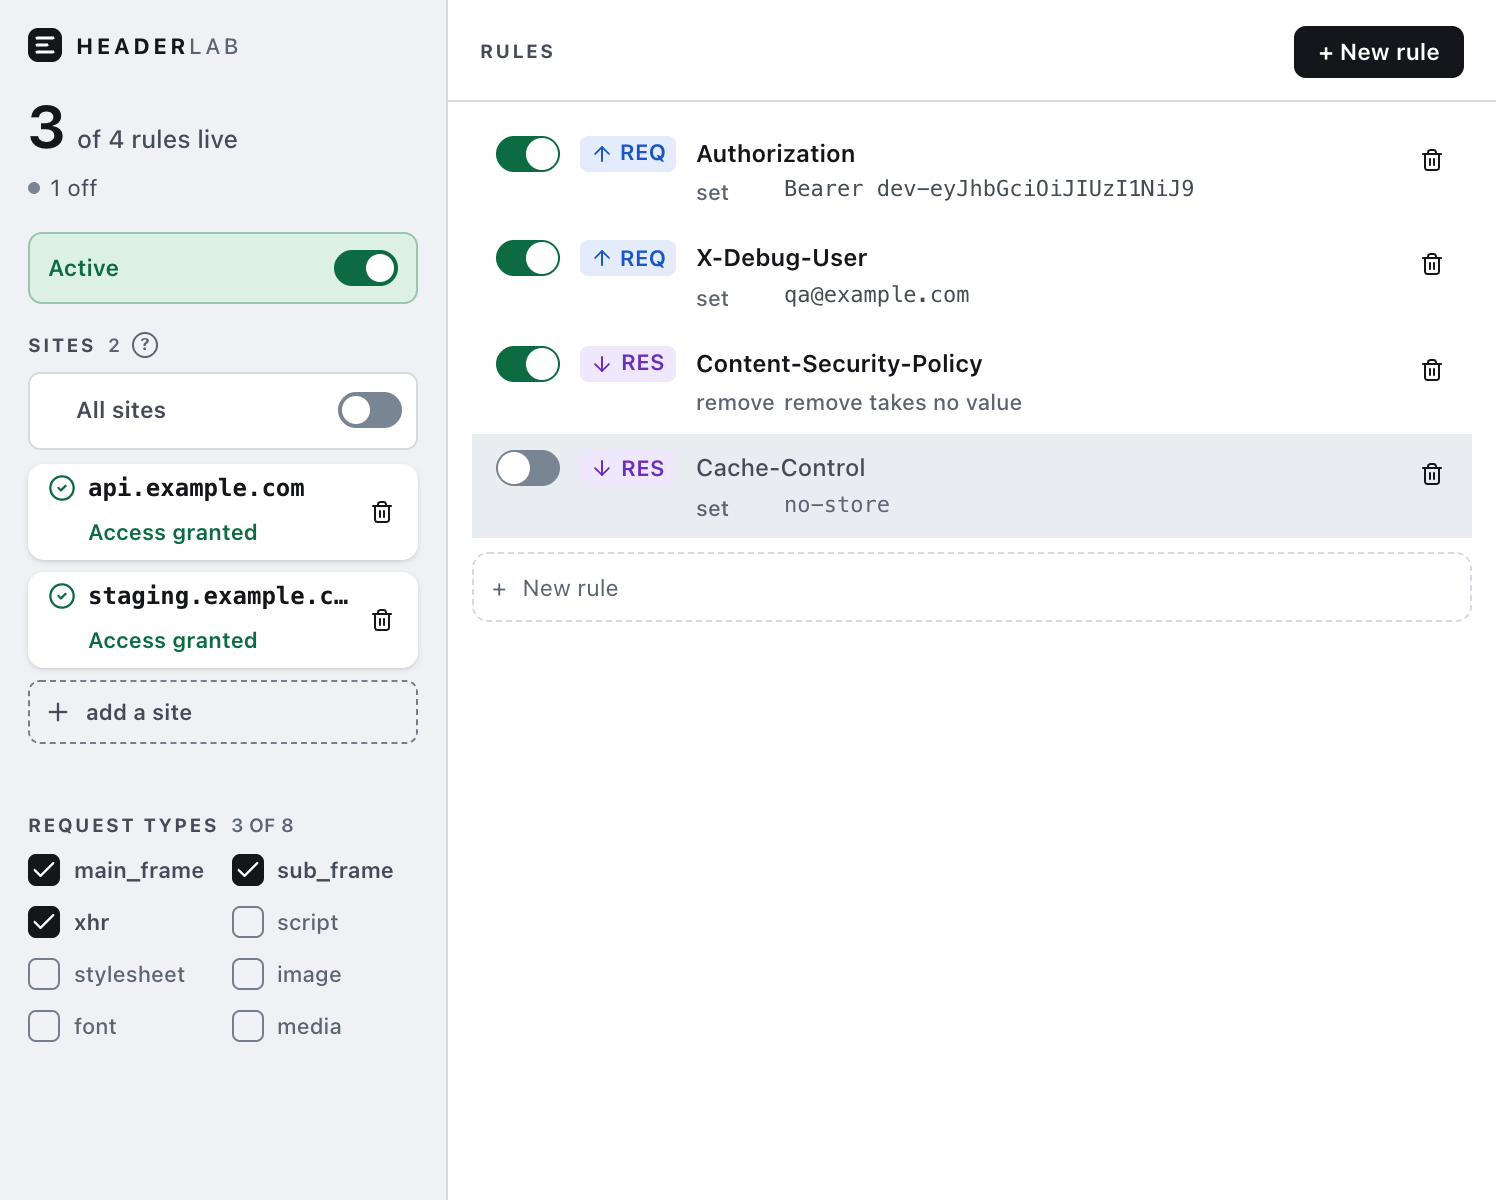
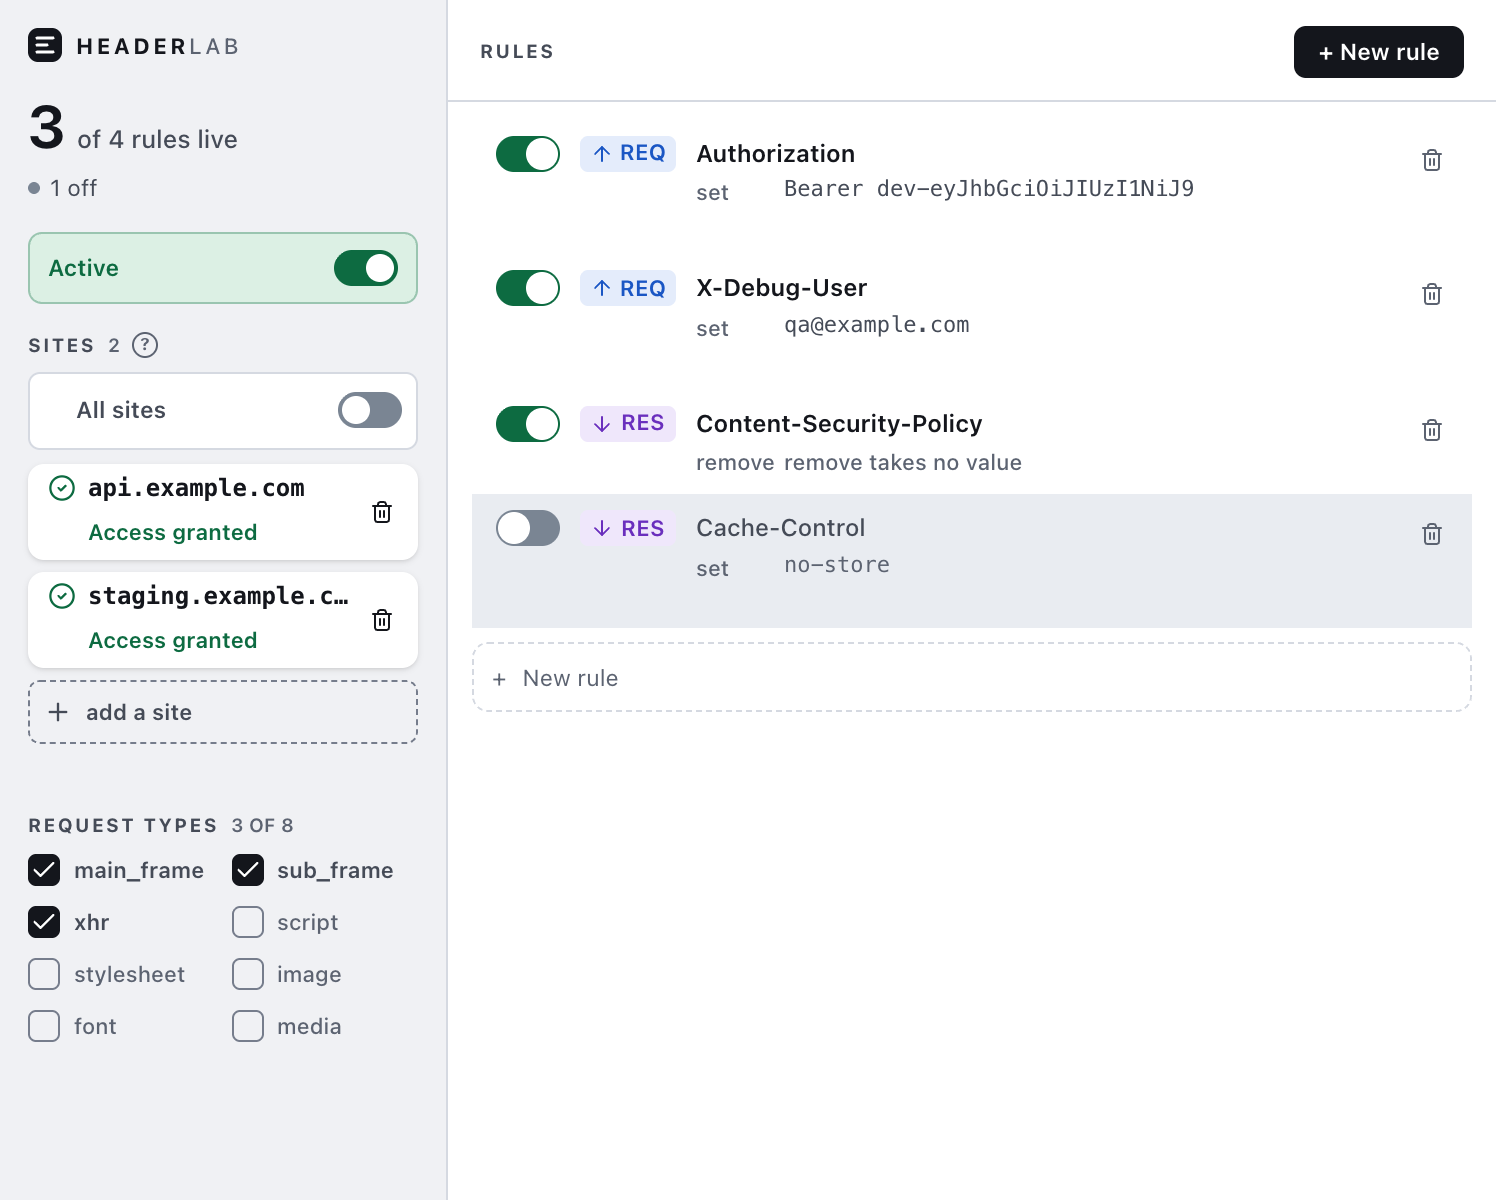
fix: 리뷰 라운드 1 — 삭제 아이콘 색, 높이 가드, 값 상한, 다크 스위치 손잡이를 고친다
Important #1: ghost Button 은 자기 색을 정하지 않아 삭제 아이콘이 행에서
가장 진한 잉크(--foreground)를 그대로 물려받고 있었다 — 헤더 이름과
경쟁하는 정반대 결과. text-muted-foreground 로 고정한다. 곁다리로
contrast.test.ts 의 'site remove control' 페어가 실제로는 어느 쪽 버튼
색도 아니었던 것도 바로잡는다 — SiteRow 의 미수정 상태(--foreground)로
값을 고치고, RuleCard 것은 새 페어로 분리한다.

Important #2: 교체했던 지오메트리 단언은 태그 이름과 값 텍스트만 보고
클래스는 보지 못해 data-[off]:py-4 같은 회귀를 통과시킬 수 있었다.
jsdom 은 레이아웃을 안 하므로 진짜 픽셀 주장은
header-modification.spec.ts 에 새 e2e 테스트로 옮긴다 — 긴 값을 심고
getBoundingClientRect() 를 토글 전후로 재고, 옆 행도 같이 안 움직이는지
본다. 이미 빨강으로 설계된 목록이 넘쳐도… 테스트 안에는 넣지 않는다 —
Playwright 는 첫 실패에서 멈춘다.

Important #3: 값 필드의 min-height: 30px / max-height: 96px 를
69bf230 에서 되살린다 — 오너가 고른 "예전 방식"은 줄바꿈 자체가 아니라
안에서 스크롤하는 캡까지 포함한다. 536자 CSP 로 재보니 캡 없이는
232.5px(팝업 높이의 42%), 캡을 살리면 132.5px. 캡이 넘는 값은 textarea
자신이 overflow-y:auto 스크롤러가 된다는 점을 과밀 가드의 두 번째
단언(Task 8/9 소관)을 위해 주석으로 남긴다. 짧은 값 행이 51.5px 에서
66.5px 로 늘어나는 실측 결과도 그대로 적어 둔다 — 지시받은 대로
복원했지만 그 대가는 눈에 보여야 한다.

Minor #7(격상): 스위치 손잡이의 dark:data-checked:bg-primary-foreground
는 switch.tsx 를 안 건드리고 root 의 임의 자손 셀렉터
([&_[data-slot=switch-thumb]]:dark:bg-white)로 덮는다. 넷 다(라이트/
다크 × 켜짐/꺼짐) 실측: 전부 rgb(255,255,255) — 옛 .hl-tog/.hl-sw 손잡이도
늘 순수 흰색이었던 전례를 그대로 잇는다.

Claude-Session: https://claude.ai/code/session_01AoJqsjMCtVNteQQZDrLcrG

Changed region(s): [[0.3075, 0.185, 0.6765, 0.4933], [0.3382, 0.555, 0.3997, 0.5858], [0.9532, 0.2158, 0.984, 0.2467]]

diff --git a/components/RuleCard.tsx b/components/RuleCard.tsx
@@ -106,8 +106,23 @@ export function RuleCard({ rule, diagnostics, onPatch, onDelete, autoFocus }: Ru
              indicator in the popup does (the rail's own switch, the
              readout's live dot), not the neutral ink token. Unchecked is
              left alone: shadcn's own `bg-input` already is the mockup's
-             `--off` mapping. */
-          className="data-checked:bg-live"
+             `--off` mapping.
+
+             The thumb has the same defect one level down: `switch.tsx`
+             hardcodes `dark:data-checked:bg-primary-foreground` on its own
+             child, which is near-black in the dark palette — a dark knob on
+             a green track, next to the rail's own switch (still-deleted
+             `.hl-sw`, always a plain white knob). `Switch` forwards no prop
+             for the thumb's own class, but an arbitrary descendant variant
+             on the root reaches it without touching the shared component:
+             `[data-slot=switch-thumb]` is more specific than the thumb's own
+             two-class rule (measured: an attribute selector plus `:is(.dark
+             *)` outweighs it), so it wins regardless of source order.
+             Hardcoded white, not a token — the old `.hl-tog`/`.hl-sw` knobs
+             were `#fff` outright too, and the mockup's `.te-sw i` never
+             varies by theme; a switch knob reads as a physical part, not
+             themed ink. */
+          className="data-checked:bg-live [&_[data-slot=switch-thumb]]:dark:bg-white"
         />
 
         <Badge
@@ -164,7 +179,25 @@ export function RuleCard({ rule, diagnostics, onPatch, onDelete, autoFocus }: Ru
                 aria-label="Header value"
                 data-testid="rule-value"
                 rows={1}
-                className="min-w-0 flex-1 resize-none rounded-none border-0 bg-transparent p-0 font-mono text-[11px] leading-[14px] font-medium text-foreground-2 shadow-none outline-none [field-sizing:content] [overflow-wrap:anywhere] placeholder:font-sans placeholder:text-[11px] placeholder:font-medium placeholder:text-muted-foreground focus-visible:ring-0 group-data-off/rule:text-muted-foreground"
+                /* min/max restored from the pre-mockup field (69bf230) — the
+                   owner's ruling was "값이 감싸지게(예전 방식)", the previous
+                   way, which capped growth and let a very long value scroll
+                   inside itself rather than growing without bound. Dropping
+                   the cap was found in review: a realistic 536-character
+                   value made one row 232.5px tall, 42% of the popup's own
+                   height. `max-h-24` (96px) is `.hl-hval`'s old value.
+
+                   Once a value is long enough to hit the cap, the textarea
+                   becomes a genuine scroll container of its own —
+                   `scrollHeight > clientHeight` — which is exactly what the
+                   crowding e2e guard's second assertion
+                   (`header-modification.spec.ts`, `expect(scrollers)...`)
+                   enumerates by walking every `overflow-y: auto`/`scroll`
+                   node. Today's fixtures only seed short values, so this
+                   never fires there, but Task 8/9 — which owns that
+                   assertion — should know the reason going in rather than
+                   find the symptom. */
+                className="min-w-0 max-h-24 min-h-[30px] flex-1 resize-none overflow-y-auto rounded-none border-0 bg-transparent p-0 font-mono text-[11px] leading-[14px] font-medium text-foreground-2 shadow-none outline-none [field-sizing:content] [overflow-wrap:anywhere] placeholder:font-sans placeholder:text-[11px] placeholder:font-medium placeholder:text-muted-foreground focus-visible:ring-0 group-data-off/rule:text-muted-foreground"
                 placeholder="value"
                 value={value.draft}
                 onChange={(e) => value.setDraft(e.target.value)}
@@ -193,7 +226,17 @@ export function RuleCard({ rule, diagnostics, onPatch, onDelete, autoFocus }: Ru
             interrupted by its destructive action. Being last in the flex row
             is now also where it visually belongs, so no positioning trick is
             needed to hold it there. */}
-        <Button variant="ghost" size="icon-xs" aria-label="Delete rule" onClick={onDelete}>
+        {/* `variant="ghost"` sets no text colour of its own — it inherits the
+            row's full-strength ink, the loudest colour in the row, on the
+            control that is destructive. The mockup's `.te-icb` and the old
+            `.hl-del` both wear `--muted-foreground`; this restores that. */}
+        <Button
+          variant="ghost"
+          size="icon-xs"
+          aria-label="Delete rule"
+          onClick={onDelete}
+          className="text-muted-foreground"
+        >
           <Trash2 />
         </Button>
       </div>

diff --git a/tests/e2e/header-modification.spec.ts b/tests/e2e/header-modification.spec.ts
@@ -240,6 +240,105 @@ test('the popup renders its rules from stored state', async ({
   await page.close();
 });
 
+test('a rule row keeps its own height when toggled off, and does not move its neighbours', async ({
+  context,
+  extensionId,
+  serviceWorker,
+}) => {
+  // RuleCard.tsx's row is no longer a fixed 52px — the owner ruled that a
+  // rule's value must wrap and grow rather than truncate, so different
+  // *rules* can be different heights. What must still hold, narrower and
+  // unchanged by that ruling: a *given* rule's own row must not change
+  // height from being toggled on/off. jsdom cannot see this (it performs no
+  // layout), so it is asserted here, against real `getBoundingClientRect()`
+  // boxes, and not merely inferred from the classes that are supposed to
+  // produce it.
+  await serviceWorker.evaluate(async () => {
+    const state = {
+      version: 2,
+      globalPause: false,
+      theme: 'system',
+      profiles: [
+        {
+          id: 'p1',
+          name: 'Local',
+          color: 'green',
+          enabled: true,
+          order: 0,
+          filter: {
+            mode: 'structured',
+            allSites: true,
+            domains: [],
+            excludedDomains: [],
+            resourceTypes: ['xmlhttprequest'],
+          },
+          tabLock: { enabled: false, tabId: null, tabTitle: null },
+          headers: [
+            {
+              id: 'long',
+              enabled: true,
+              target: 'request',
+              operation: 'set',
+              name: 'Authorization',
+              // Long enough to wrap across several lines at the panel's real
+              // width, and unbroken enough (no spaces) to exercise
+              // `overflow-wrap: anywhere` rather than wrapping at word
+              // boundaries alone — the shape of a real bearer token.
+              value:
+                'Bearer dev-eyJhbGciOiJIUzI1NiJ9.eyJzdWIiOiIxMjM0NTY3ODkwIiwibmFtZSI6IkpvaG4gRG9lIiwiaWF0IjoxNTE2MjM5MDIyLCJyb2xlcyI6WyJhZG1pbiIsInFhIiwic3RhZ2luZy1kZWJ1ZyJdfQ.dummysignature-not-real-do-not-use',
+            },
+            {
+              id: 'short',
+              enabled: true,
+              target: 'response',
+              operation: 'set',
+              name: 'X-Short',
+              value: 'ok',
+            },
+          ],
+        },
+      ],
+    };
+    await chrome.storage.local.set({ state, state$: { v: 2 } });
+  });
+
+  const page = await context.newPage();
+  await page.goto(`chrome-extension://${extensionId}/popup.html`);
+  await page.locator('[data-testid="rule"]').first().waitFor();
+
+  const rows = page.locator('[data-testid="rule"]');
+  const longRow = rows.first();
+  const shortRow = rows.nth(1);
+
+  const before = {
+    long: await longRow.boundingBox(),
+    short: await shortRow.boundingBox(),
+  };
+
+  // The long value really did wrap onto more than one line — otherwise the
+  // equality assertions below would pass trivially for an ordinary
+  // single-line row, and this test would not be testing what it claims to.
+  expect(before.long!.height).toBeGreaterThan(before.short!.height * 1.5);
+
+  await longRow.getByRole('switch').click();
+  // `data-off` becoming "true" is the popup's own claim that the click
+  // landed and this is the row it landed on, before trusting a box
+  // measurement taken immediately after.
+  await expect(longRow).toHaveAttribute('data-off', 'true');
+
+  const after = {
+    long: await longRow.boundingBox(),
+    short: await shortRow.boundingBox(),
+  };
+
+  // Whole-box equality, not just height: toggling must not move the row
+  // either, and must not move its untouched sibling below it.
+  expect(after.long).toEqual(before.long);
+  expect(after.short).toEqual(before.short);
+
+  await page.close();
+});
+
 test("nothing in the popup is wider than what holds it, at the popup's own width", async ({
   context,
   extensionId,

diff --git a/tests/unit/RuleCard.test.tsx b/tests/unit/RuleCard.test.tsx
@@ -306,7 +306,8 @@ describe('RuleCard tab order', () => {
   });
 
   it('keeps that order on a rule whose value is still empty', async () => {
-    // An empty `set` rule still renders a real input, so it is in the
+    // An empty `set` rule still renders a real field (a textarea, restored
+    // in a later round — see the value slot tests below), so it is in the
     // sequence like any other. (Only `remove` swaps the value for a span —
     // see below.) Without this case the order could hold for filled rules and
     // break for the one a user meets first.
@@ -373,16 +374,25 @@ describe('RuleCard geometry', () => {
   // value must wrap and grow rather than truncate, so different *rules* can
   // be different heights (see the docblock on RuleCard). What must still
   // hold is narrower: a *given* rule's own row must not change height when
-  // it is toggled on/off or gains a diagnostic. jsdom performs no layout
-  // (this codebase's own e2e suite says so outright), so a unit test cannot
-  // honestly measure pixels — that claim is verified in a real browser
-  // instead (see the task report). What a unit test *can* honestly check is
-  // the structural half of the same claim: toggling never changes which
-  // elements render, their order, or the value text they carry — only
-  // colour/weight classes may differ. A future edit that swapped the value
-  // field for something else in one state, or truncated/altered its text
-  // only when off, would change what this asserts even though jsdom cannot
-  // see the pixel consequence.
+  // it is toggled on/off or gains a diagnostic.
+  //
+  // What this describe block does NOT and cannot guard: the actual pixel
+  // claim. jsdom performs no layout (this codebase's own e2e suite says so
+  // outright), so nothing here can see a regression like `data-[off]:py-4`
+  // or `group-data-off/rule:leading-[20px]` on the row — every Tailwind
+  // class is invisible to a test that only reads tag names and text. That
+  // claim is a real e2e test instead:
+  // `tests/e2e/header-modification.spec.ts`, "a rule row keeps its own
+  // height when toggled off, and does not move its neighbours" — seeded
+  // with a value long enough to wrap onto multiple lines, measuring
+  // `getBoundingClientRect()` before and after toggling.
+  //
+  // What these two tests *do* honestly check is narrower and complementary:
+  // that toggling, or a diagnostic appearing, never changes which elements
+  // render, their order, or the value text they carry — a class of
+  // regression (the value field swapped for something else, or its text
+  // altered or truncated only in one state) that would very likely also
+  // change the rendered height, but isn't itself a height claim.
   it("changes only colour and weight when toggled off, never the row's own structure or its value text", () => {
     const base = {
       id: 'h',

diff --git a/tests/unit/contrast.test.ts b/tests/unit/contrast.test.ts
@@ -195,7 +195,21 @@ const TEXT_PAIRS: ReadonlyArray<readonly [string, string, string]> = [
   // not by the row's own surface, so one pairing now covers every state
   // rather than one per state.
   ['site host — the hostname on its row', '--foreground', '--card'],
-  ['site remove control — the ghost icon button on its row', '--muted-foreground', '--card'],
+  // `Button variant="ghost"` sets no text colour of its own, so an unstyled
+  // ghost icon button inherits the row's ink (`--foreground`), not
+  // `--muted-foreground` — measured in SiteRow.tsx's remove control, which
+  // carries no colour override. This pair used to claim `--muted-foreground`,
+  // which is not the colour either that button or RuleCard's (below) render;
+  // fixed to the colour that actually paints today rather than left
+  // describing nothing (CLAUDE.md, "no silent failures" / this file's own
+  // header on rot). Fixing SiteRow's own icon colour is a Task 5 concern, out
+  // of this task's file list.
+  ['site remove control — the ghost icon button on its row', '--foreground', '--card'],
+  // RuleCard's delete button overrides the same shadcn ghost default with an
+  // explicit `text-muted-foreground` (this task, in response to review) so it
+  // does not out-shout the header name it sits beside — the one-button-
+  // language fix landing on its last element too.
+  ['rule delete control — the ghost icon button on its row', '--muted-foreground', '--card'],
   [
     'readout subcount and section headings — .hl-subcount / .hl-railhead',
     '--foreground-2',
